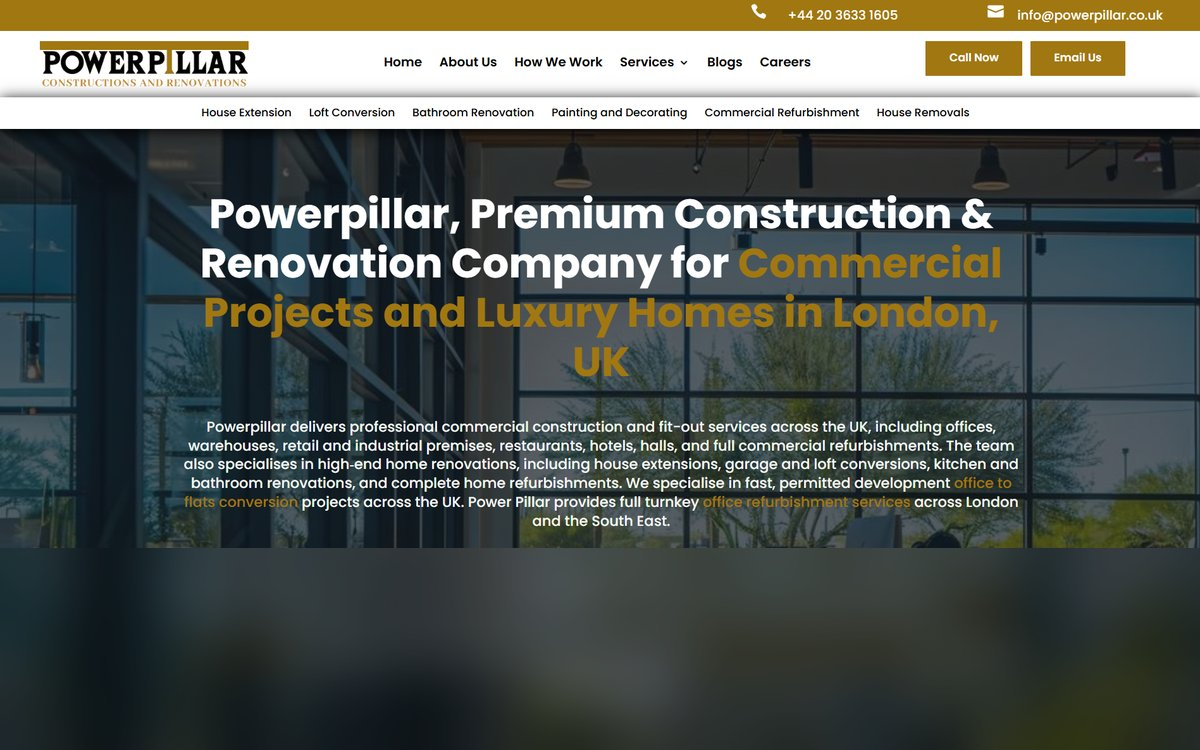
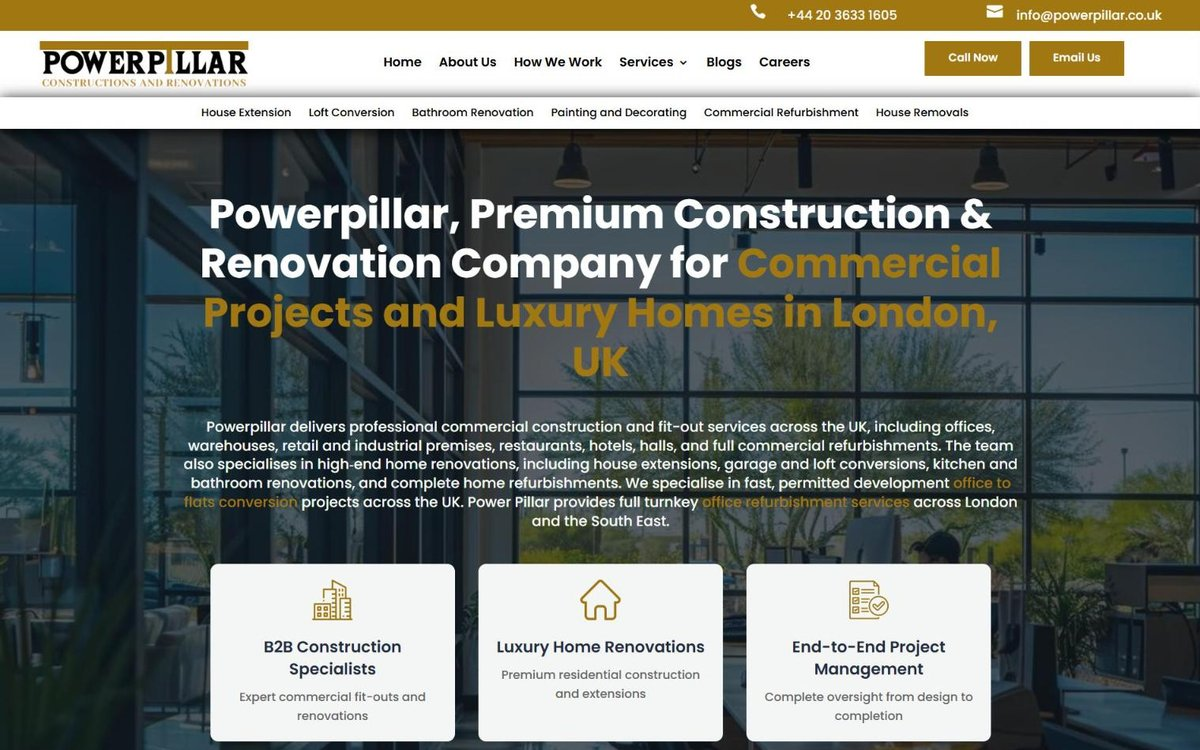
Retake E-Ozzie, Sweet Greek and Powerpillar thumbnails from live sites
Claude-Session: https://claude.ai/code/session_018FYhQwKR2udrmDeXMSJ7m5

diff --git a/index.html b/index.html
@@ -209,7 +209,7 @@
         <a class="project reveal" href="https://eozzie.com.au" target="_blank" rel="noopener" data-cat="ecommerce">
           <div class="p-thumb">
             <div class="p-bar"><i></i><i></i><i></i><span>eozzie.com.au</span></div>
-            <div class="p-img"><img src="assets/projects/eozzie.jpg?v=2" alt="E-Ozzie website developed by Hamza Mushtaq" loading="lazy" width="1200" height="750"></div>
+            <div class="p-img"><img src="assets/projects/eozzie.jpg?v=3" alt="E-Ozzie website developed by Hamza Mushtaq" loading="lazy" width="1200" height="750"></div>
           </div>
           <div class="p-body">
             <div class="p-top"><span class="p-num">01</span><span class="p-type">E-Mobility Retail</span></div>
@@ -221,7 +221,7 @@
         <a class="project reveal" href="https://sweetgreek.com.au" target="_blank" rel="noopener" data-cat="ecommerce">
           <div class="p-thumb">
             <div class="p-bar"><i></i><i></i><i></i><span>sweetgreek.com.au</span></div>
-            <div class="p-img"><img src="assets/projects/sweet-greek.jpg" alt="Sweet Greek website developed by Hamza Mushtaq" loading="lazy" width="1200" height="750"></div>
+            <div class="p-img"><img src="assets/projects/sweet-greek.jpg?v=3" alt="Sweet Greek website developed by Hamza Mushtaq" loading="lazy" width="1200" height="750"></div>
           </div>
           <div class="p-body">
             <div class="p-top"><span class="p-num">02</span><span class="p-type">Food &amp; Deli</span></div>
@@ -233,7 +233,7 @@
         <a class="project reveal" href="https://powerpillar.co.uk" target="_blank" rel="noopener" data-cat="business">
           <div class="p-thumb">
             <div class="p-bar"><i></i><i></i><i></i><span>powerpillar.co.uk</span></div>
-            <div class="p-img"><img src="assets/projects/powerpillar.jpg?v=2" alt="Powerpillar website developed by Hamza Mushtaq" loading="lazy" width="1200" height="750"></div>
+            <div class="p-img"><img src="assets/projects/powerpillar.jpg?v=3" alt="Powerpillar website developed by Hamza Mushtaq" loading="lazy" width="1200" height="750"></div>
           </div>
           <div class="p-body">
             <div class="p-top"><span class="p-num">03</span><span class="p-type">Construction</span></div>
